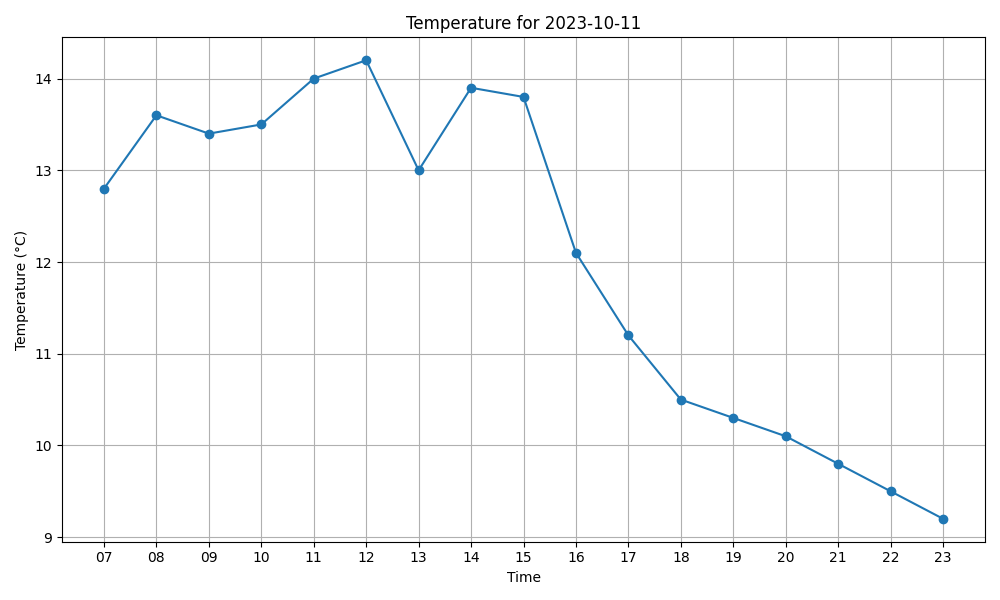
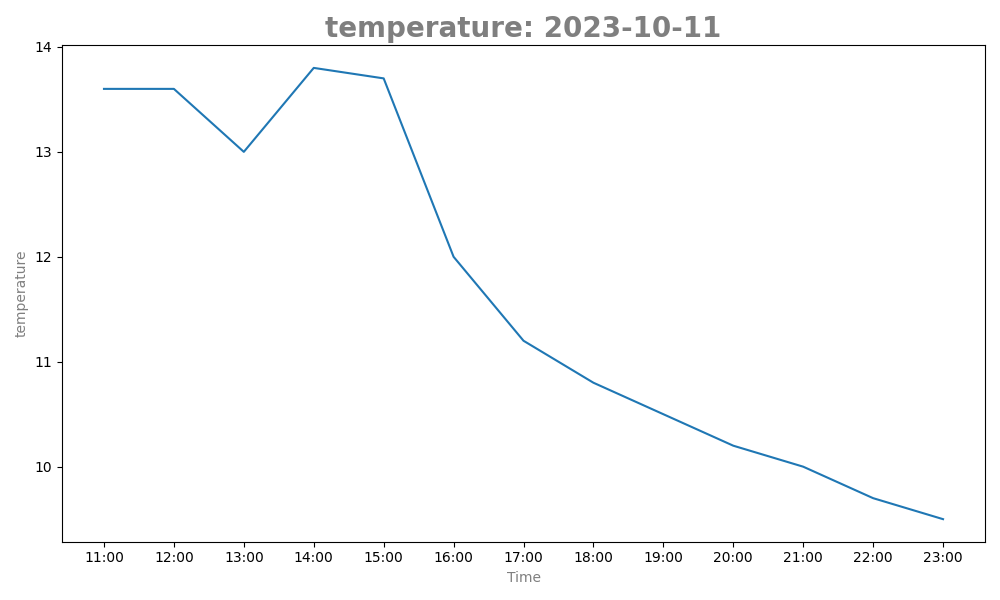
added screenshots

diff --git a/superceded/graph_temp.py b/superceded/graph_temp.py
@@ -18,7 +18,7 @@ def plot_data(input_json_path, value, output_path):
     plt.figure(figsize=(10, 6))  # Set the figure size (width, height)
 
     # Plot temperature data
-    plt.scatter(filtered_df['validTime'], filtered_df[value], color= 'tab:blue')
+    plt.plot(filtered_df['validTime'], filtered_df[value], color= 'tab:blue')
 
     # Set labels and title
     plt.xlabel('Time', color = 'tab:gray', fontsize=10 )
